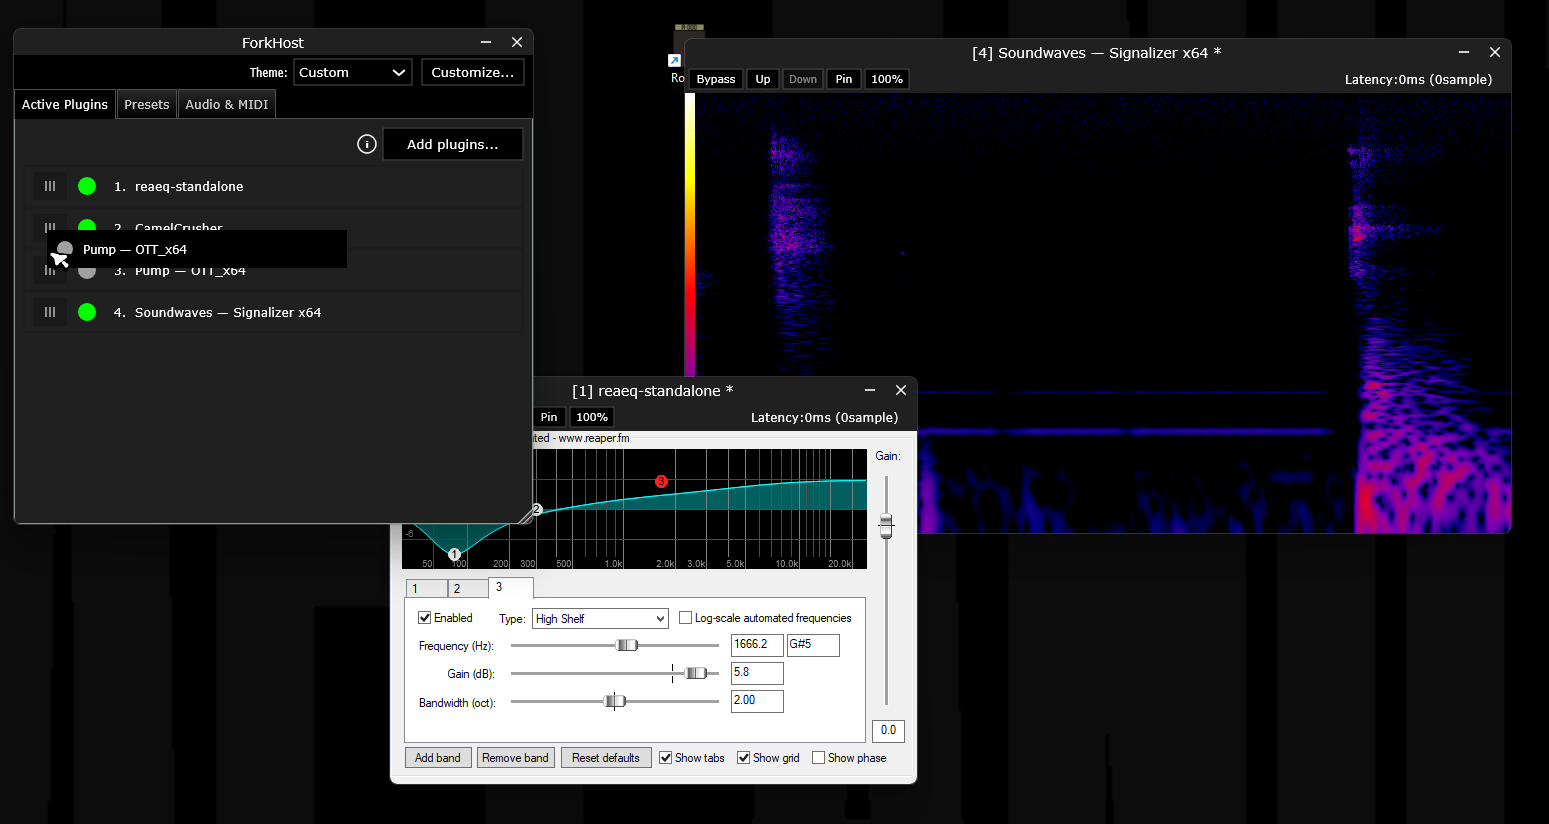
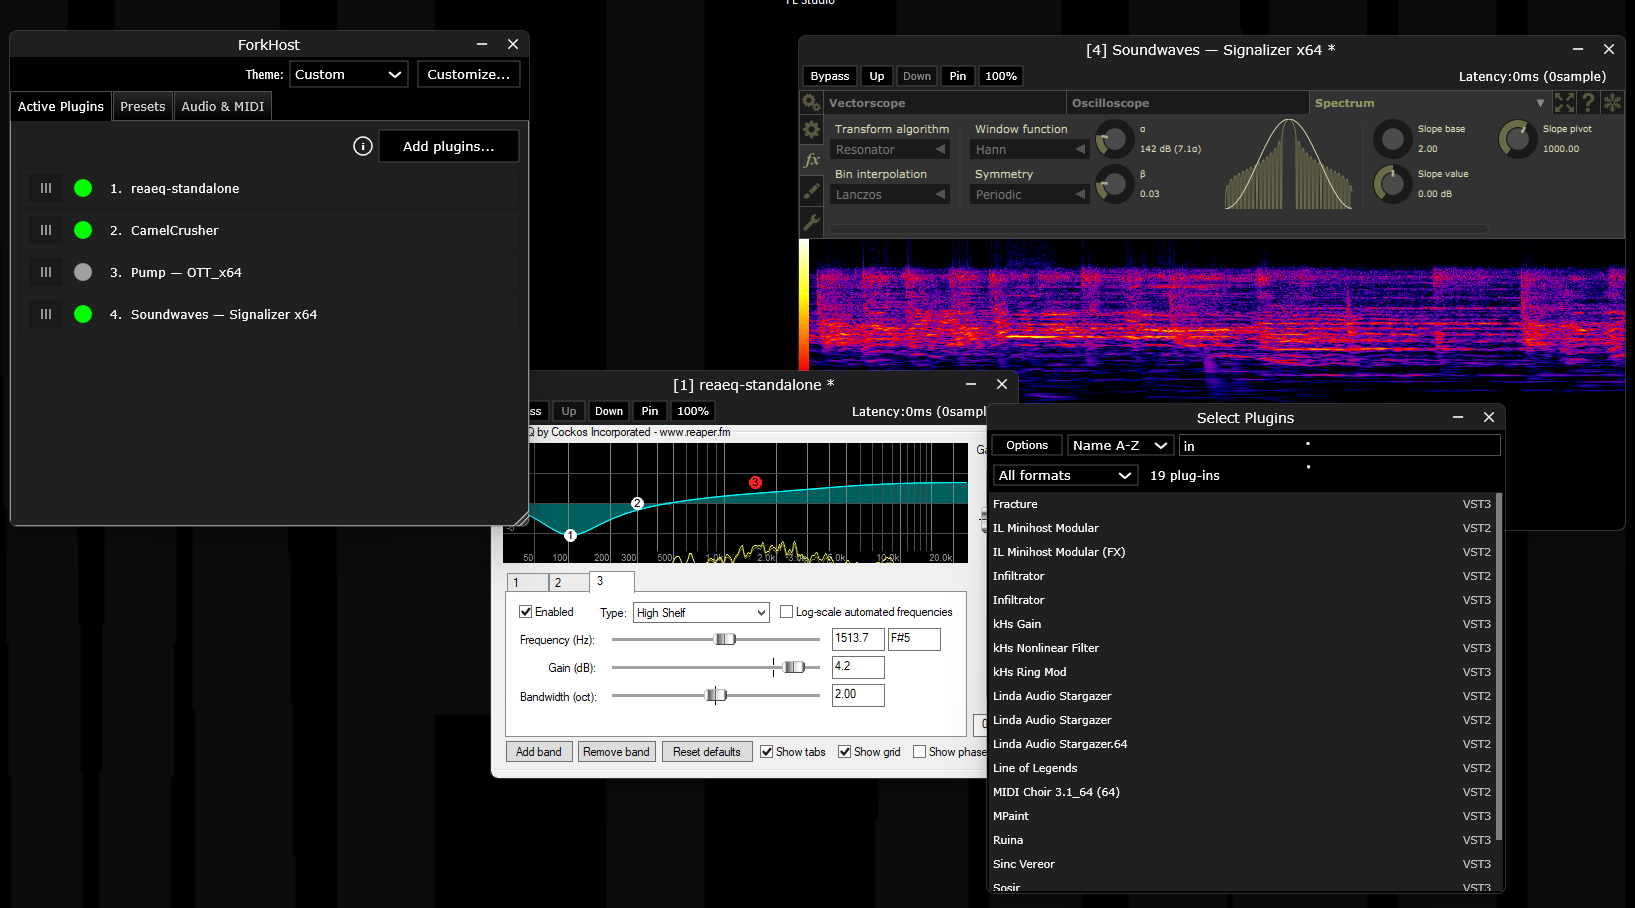
Update readme.md To add screenshot

diff --git a/readme.md b/readme.md
@@ -147,4 +147,4 @@ Pushing a tag matching `v*` runs the release workflow and publishes packaged Win
 
 ### Screenshot
 
-![ForkHost preview](Resources/LightHostReforge.png)
+![ForkHost preview](Resources/ForkHost.png)
